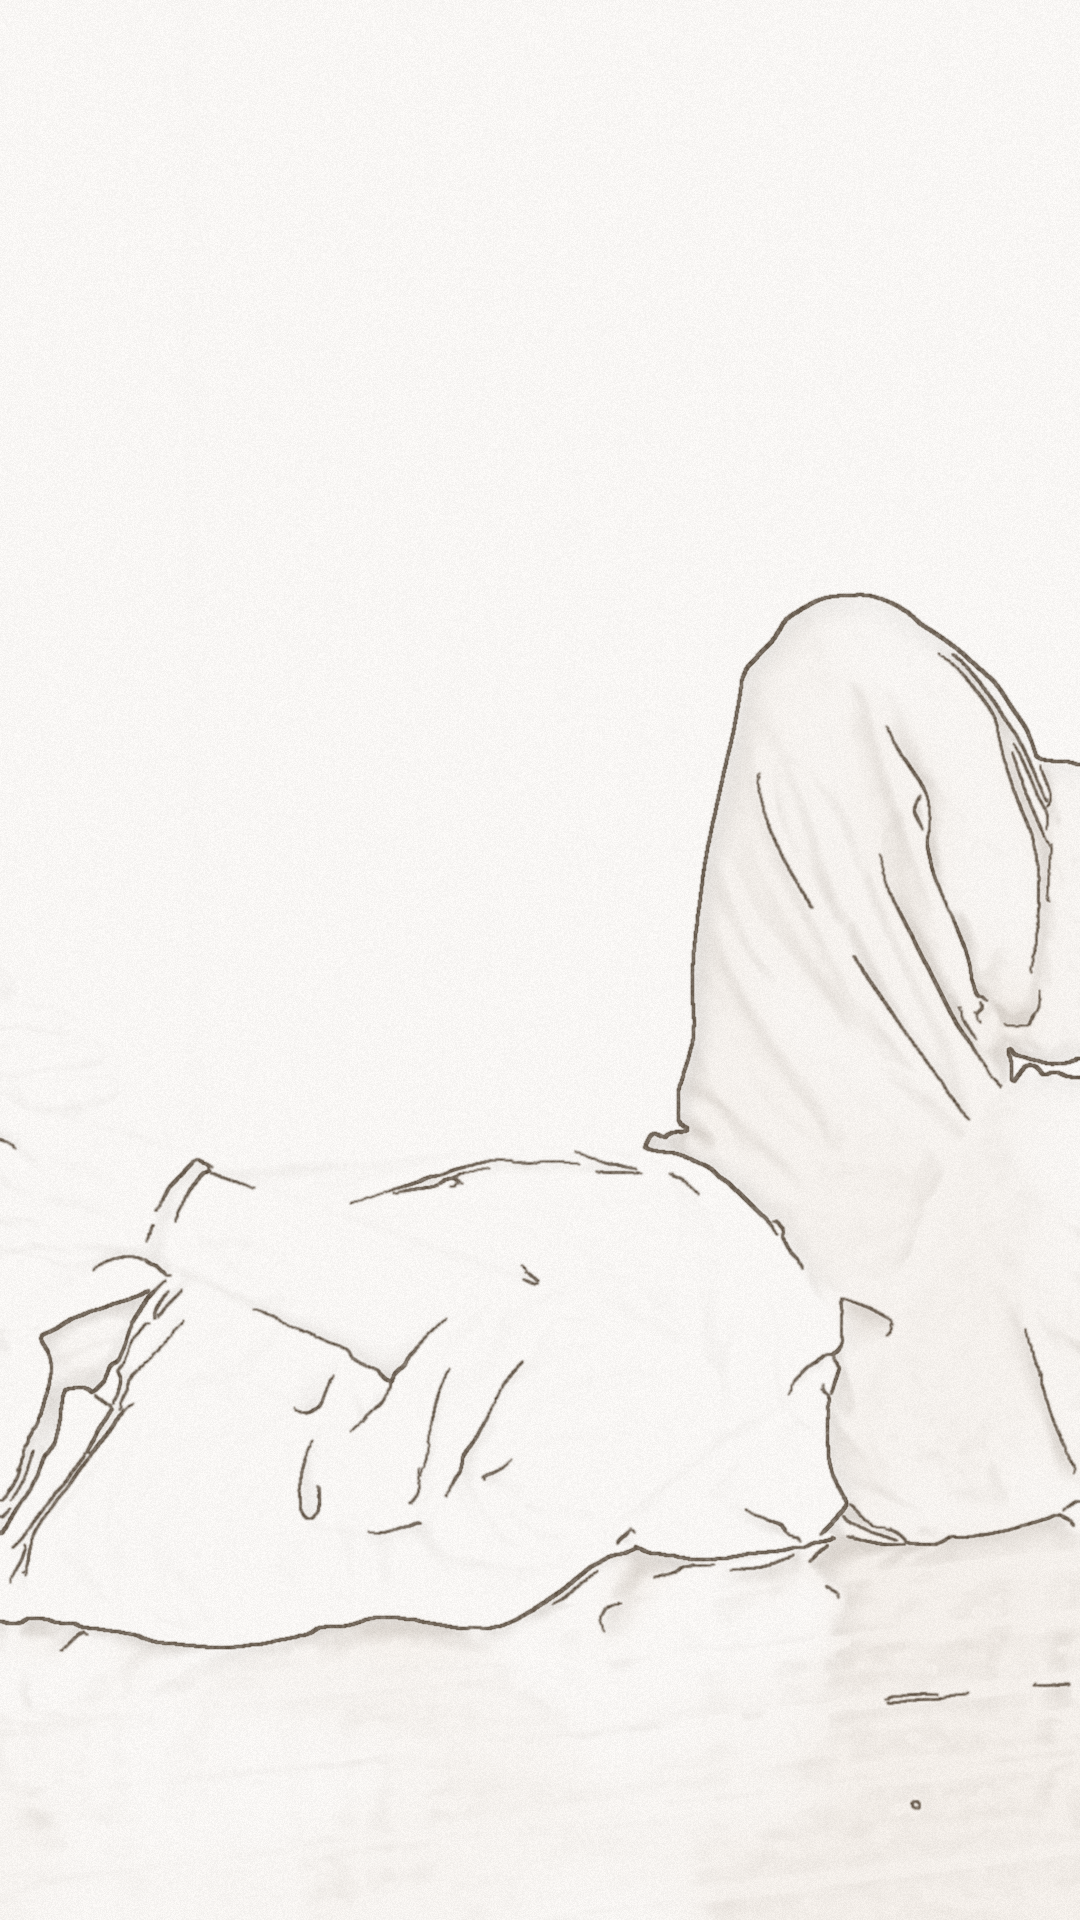
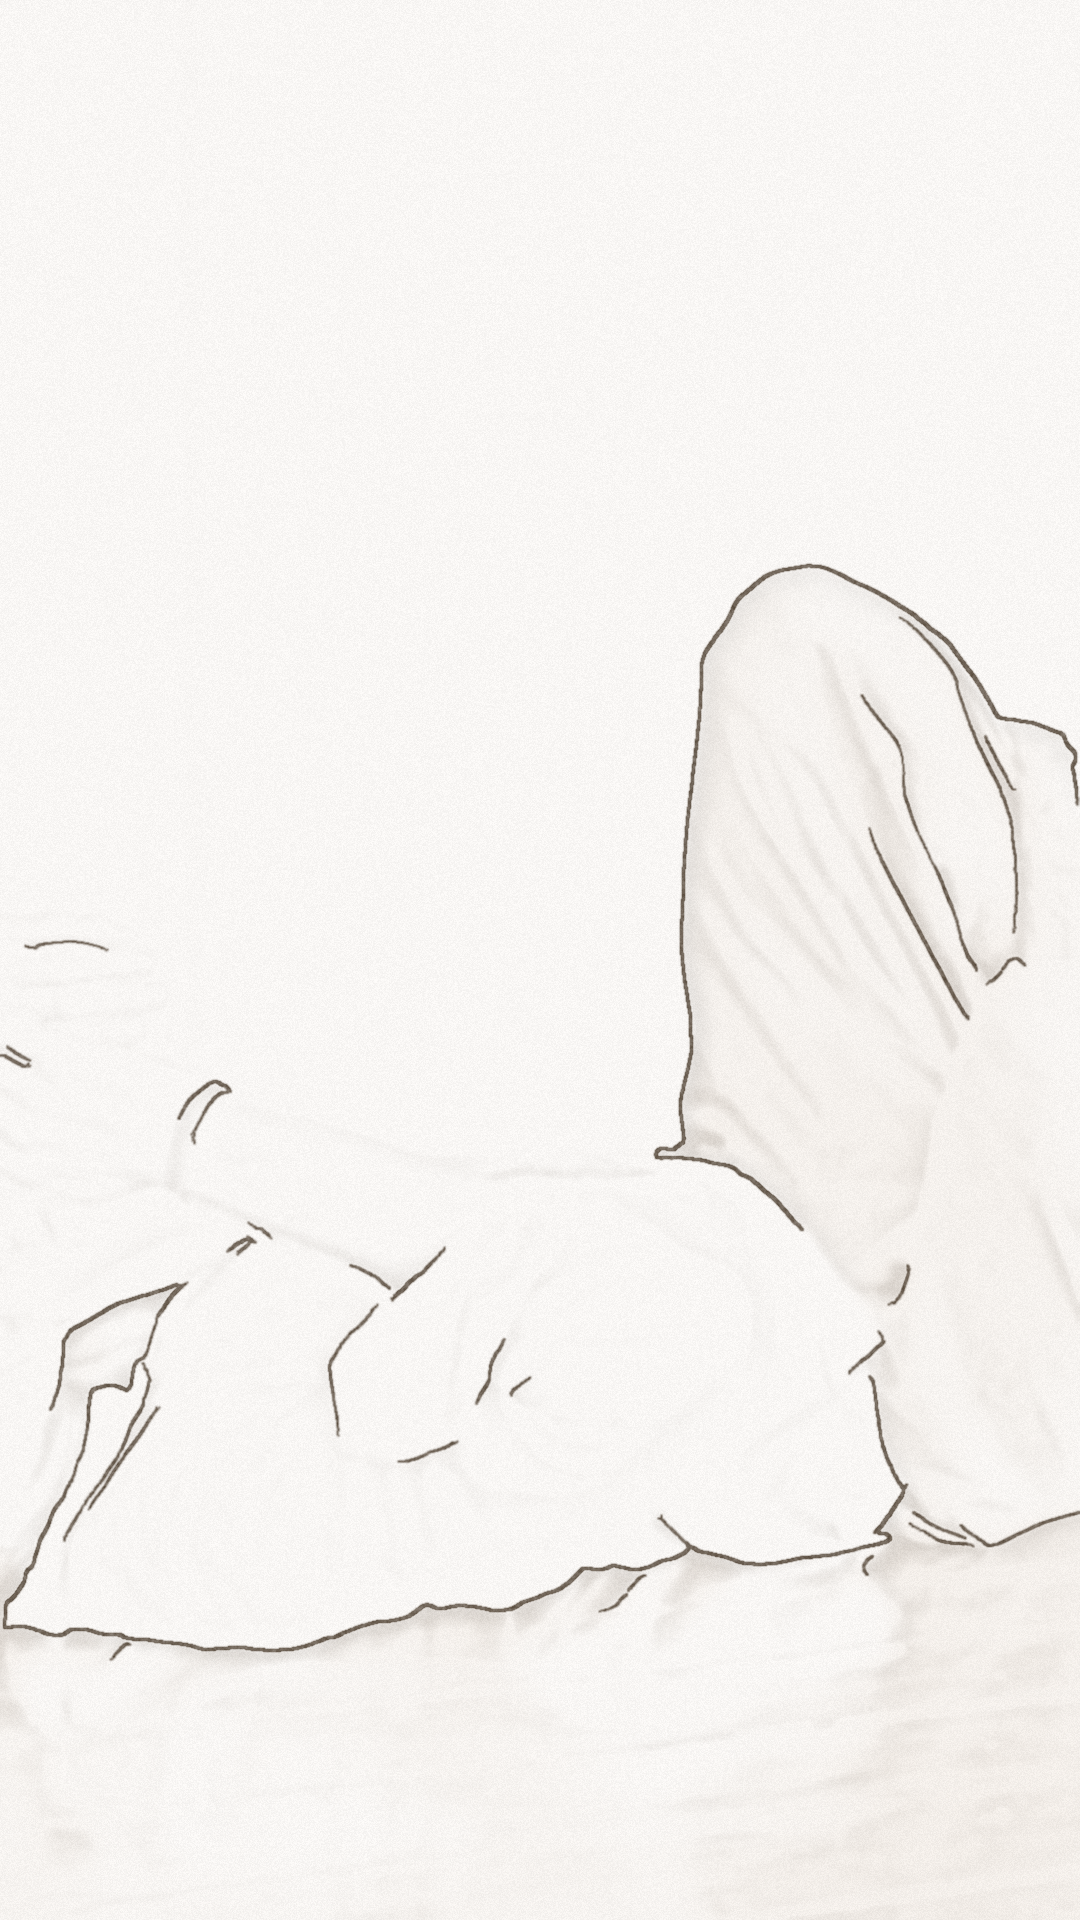
Strokes vs covers: whole-cover matching, crops now on the dancers

diff --git a/wikipedia-design-preview/samples/strokes-vs-covers/index.html b/wikipedia-design-preview/samples/strokes-vs-covers/index.html
@@ -2,4 +2,4 @@
 <style>body{margin:0;font:14px/1.6 -apple-system,"Helvetica Neue",Helvetica,Arial,sans-serif;color:#202122;background:#fff}a{color:#3366cc;text-decoration:none}a:hover{text-decoration:underline}
 .wrap{max-width:1180px;margin:0 auto;padding:1.2rem}h1{font-family:"Linux Libertine",Georgia,serif;font-weight:400;font-size:2rem;border-bottom:1px solid #a2a9b1;padding-bottom:.15em}h2{font-family:"Linux Libertine",Georgia,serif;font-weight:400;font-size:1.5rem;border-bottom:1px solid #a2a9b1;margin-top:1.6em}
 .pair{display:grid;grid-template-columns:1fr 1fr;gap:1rem;max-width:760px}.pair img{width:100%;display:block;border:1px solid #c8ccd1}.c{font-size:12.5px;color:#54595d;padding:.3em 0}</style></head><body><div class="wrap">
-<h1>Your covers, redrawn in delicate strokes</h1><p>Left: the reel cover from the burst folder. Right: the same frame, found in the reel and cropped to the cover's crop, rendered as thin ink strokes with a faint pastel wash. Stroke weight now follows contrast and speckle is removed. Also: <a href="../strokes/?v=2">landscape stroke tests</a> &middot; <a href="../../index.html">Main Page</a>.</p><h2>Fun trio</h2><div class="pair"><div><img src="fun-trio-cover.png?v=1" alt=""><div class="c">The cover you posted</div></div><div><img src="fun-trio-strokes.png?v=1" alt=""><div class="c">Same frame, delicate strokes (match 0.84, t=72.0s)</div></div></div><h2>Pausing</h2><div class="pair"><div><img src="pausing-cover.png?v=1" alt=""><div class="c">The cover you posted</div></div><div><img src="pausing-strokes.png?v=1" alt=""><div class="c">Same frame, delicate strokes (match 0.97, t=21.0s)</div></div></div><h2>Snail</h2><div class="pair"><div><img src="snail-cover.png?v=1" alt=""><div class="c">The cover you posted</div></div><div><img src="snail-strokes.png?v=1" alt=""><div class="c">Same frame, delicate strokes (match 0.74, t=9.5s)</div></div></div><h2>Energy efficiency</h2><div class="pair"><div><img src="energy-efficiency-cover.png?v=1" alt=""><div class="c">The cover you posted</div></div><div><img src="energy-efficiency-strokes.png?v=1" alt=""><div class="c">Same frame, delicate strokes (match 0.98, t=4.5s)</div></div></div></div></body></html>
+<h1>Your covers, redrawn in delicate strokes</h1><p>Left: the reel cover from the burst folder. Right: the same frame, found in the reel and cropped to the cover's crop, rendered as thin ink strokes with a faint pastel wash. Stroke weight now follows contrast and speckle is removed. Also: <a href="../strokes/?v=2">landscape stroke tests</a> &middot; <a href="../../index.html">Main Page</a>.</p><h2>Fun trio</h2><div class="pair"><div><img src="fun-trio-cover.png?v=1" alt=""><div class="c">The cover you posted</div></div><div><img src="fun-trio-strokes.png?v=2" alt=""><div class="c">Same frame, delicate strokes </div></div></div><h2>Pausing</h2><div class="pair"><div><img src="pausing-cover.png?v=1" alt=""><div class="c">The cover you posted</div></div><div><img src="pausing-strokes.png?v=2" alt=""><div class="c">Same frame, delicate strokes </div></div></div><h2>Snail</h2><div class="pair"><div><img src="snail-cover.png?v=1" alt=""><div class="c">The cover you posted</div></div><div><img src="snail-strokes.png?v=2" alt=""><div class="c">Same frame, delicate strokes </div></div></div><h2>Energy efficiency</h2><div class="pair"><div><img src="energy-efficiency-cover.png?v=1" alt=""><div class="c">The cover you posted</div></div><div><img src="energy-efficiency-strokes.png?v=2" alt=""><div class="c">Same frame, delicate strokes </div></div></div></div></body></html>
